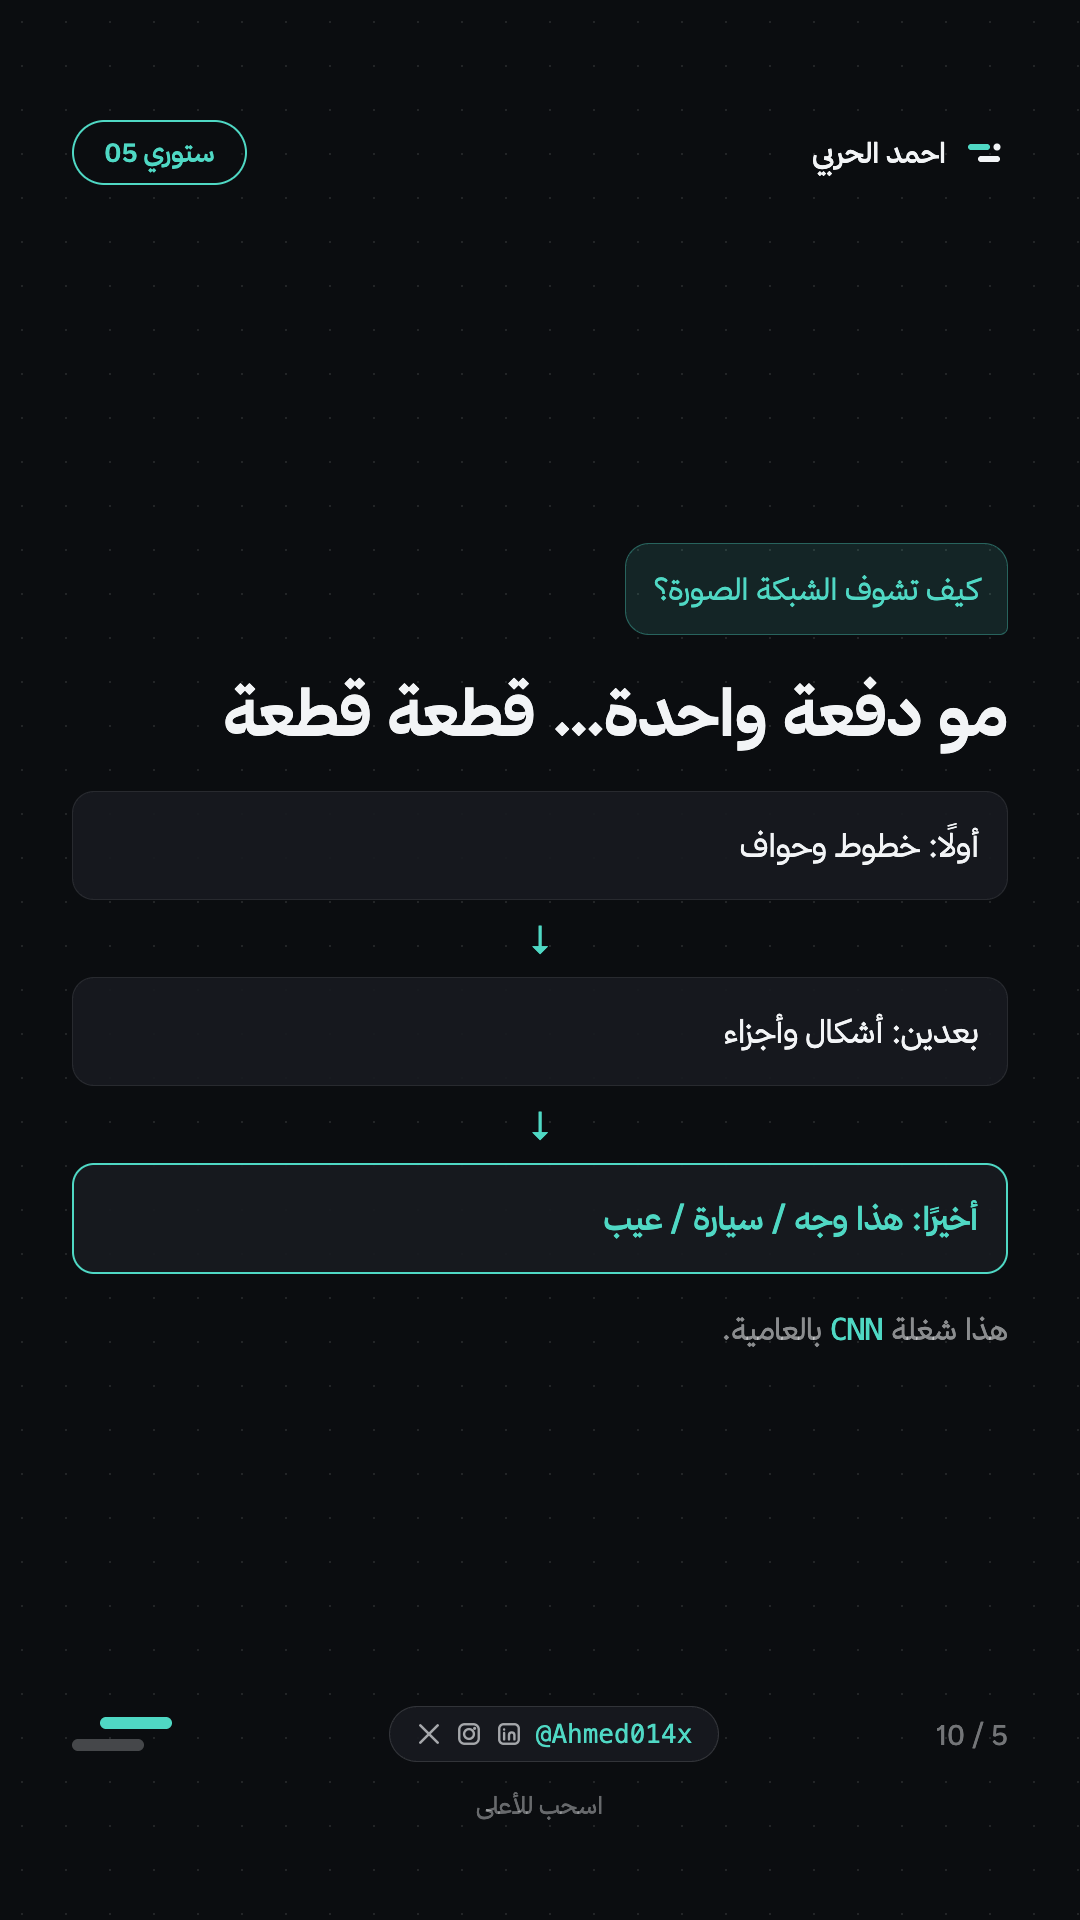
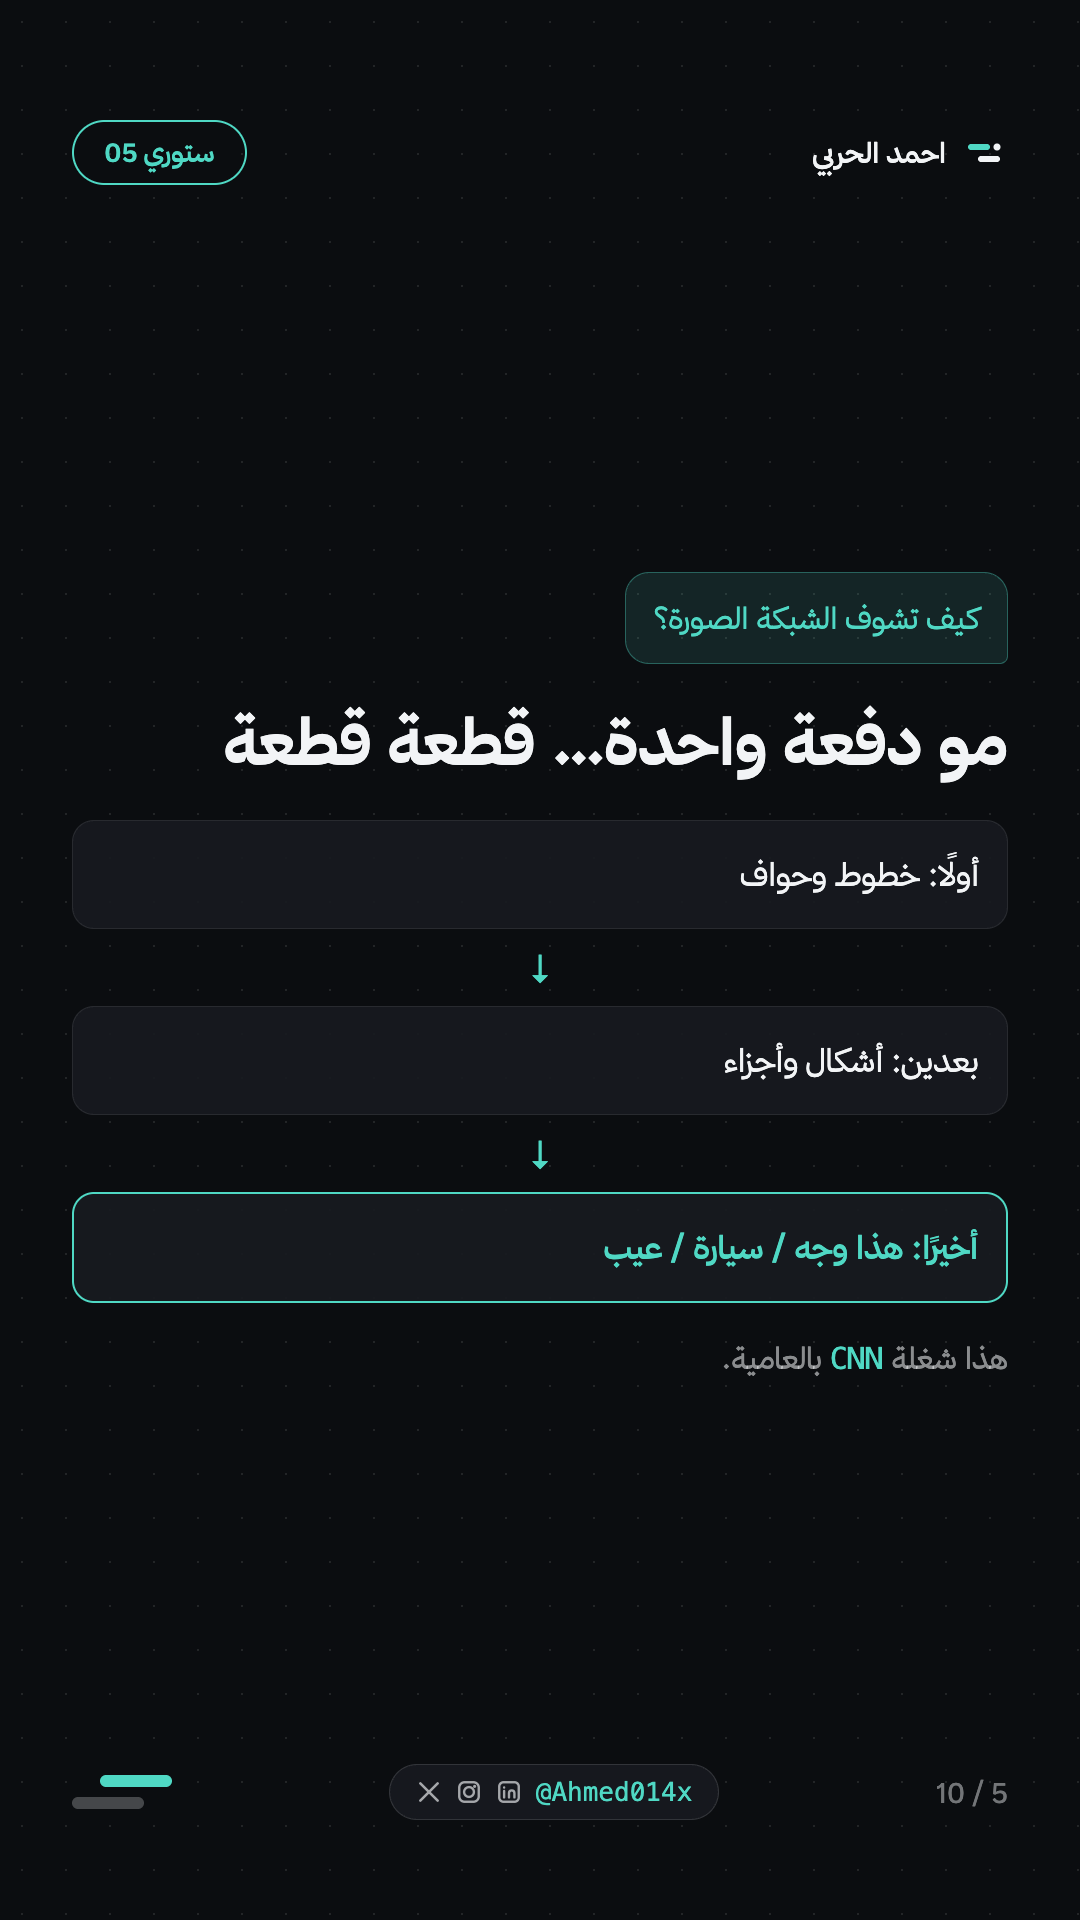
Update brand package HTML to remove redundant text and enhance layout consistency. Update multiple PNG assets to align with new design standards, improving overall visual coherence.

diff --git a/brand-package/html/ستوريات-التعلم-العميق.html b/brand-package/html/ستوريات-التعلم-العميق.html
@@ -47,7 +47,6 @@ body{margin:0;background:#171a1f;font-family:'Thmanyah Sans',sans-serif}
     <div dir="ltr" style="display:flex;align-items:center;gap:14px;padding:12px 26px;background:rgba(23,26,31,.9);border:1px solid rgba(255,255,255,.12);border-radius:999px"><svg width="26" height="26" viewBox="0 0 24 24" fill="none" stroke="rgba(242,244,246,.65)" stroke-width="2.4" stroke-linecap="round"><path d="M4 4l16 16M20 4L4 20"/></svg><svg width="26" height="26" viewBox="0 0 24 24" fill="none" stroke="rgba(242,244,246,.65)" stroke-width="2.2" stroke-linecap="round"><rect x="3" y="3" width="18" height="18" rx="5"/><circle cx="12" cy="12" r="4.5"/><circle cx="17.2" cy="6.8" r="1.4" fill="rgba(242,244,246,.65)" stroke="none"/></svg><svg width="26" height="26" viewBox="0 0 24 24" fill="none" stroke="rgba(242,244,246,.65)" stroke-width="2.2" stroke-linecap="round"><rect x="3" y="3" width="18" height="18" rx="4"/><path d="M7.5 11v6M7.5 7.8v.1M12 17v-4a2.5 2.5 0 0 1 5 0v4"/></svg><span dir="ltr" style="font-size:26px;font-family:ui-monospace,monospace;color:#4fd8c4">@Ahmed014x</span></div>
     <div style="display:flex;flex-direction:column;gap:10px;align-items:flex-start"><span style="width:72px;height:12px;border-radius:6px;background:#4fd8c4"></span><span style="width:72px;height:12px;border-radius:6px;background:rgba(242,244,246,.25);margin-right:28px"></span></div>
   </div>
-  <div style="text-align:center;font-size:24px;color:rgba(242,244,246,.4)">اسحب للأعلى</div>
 </div>
 </div>
 <div id="s2" dir="rtl" style="width:1080px;height:1920px;background-color:#0b0d10;background-image:radial-gradient(rgba(242,244,246,.1) 1.5px,transparent 1.5px);background-size:44px 44px;padding:120px 72px 100px;box-sizing:border-box;display:flex;flex-direction:column;font-family:'Thmanyah Sans',sans-serif;position:relative">
@@ -69,7 +68,6 @@ body{margin:0;background:#171a1f;font-family:'Thmanyah Sans',sans-serif}
     <div dir="ltr" style="display:flex;align-items:center;gap:14px;padding:12px 26px;background:rgba(23,26,31,.9);border:1px solid rgba(255,255,255,.12);border-radius:999px"><svg width="26" height="26" viewBox="0 0 24 24" fill="none" stroke="rgba(242,244,246,.65)" stroke-width="2.4" stroke-linecap="round"><path d="M4 4l16 16M20 4L4 20"/></svg><svg width="26" height="26" viewBox="0 0 24 24" fill="none" stroke="rgba(242,244,246,.65)" stroke-width="2.2" stroke-linecap="round"><rect x="3" y="3" width="18" height="18" rx="5"/><circle cx="12" cy="12" r="4.5"/><circle cx="17.2" cy="6.8" r="1.4" fill="rgba(242,244,246,.65)" stroke="none"/></svg><svg width="26" height="26" viewBox="0 0 24 24" fill="none" stroke="rgba(242,244,246,.65)" stroke-width="2.2" stroke-linecap="round"><rect x="3" y="3" width="18" height="18" rx="4"/><path d="M7.5 11v6M7.5 7.8v.1M12 17v-4a2.5 2.5 0 0 1 5 0v4"/></svg><span dir="ltr" style="font-size:26px;font-family:ui-monospace,monospace;color:#4fd8c4">@Ahmed014x</span></div>
     <div style="display:flex;flex-direction:column;gap:10px;align-items:flex-start"><span style="width:72px;height:12px;border-radius:6px;background:#4fd8c4"></span><span style="width:72px;height:12px;border-radius:6px;background:rgba(242,244,246,.25);margin-right:28px"></span></div>
   </div>
-  <div style="text-align:center;font-size:24px;color:rgba(242,244,246,.4)">اسحب للأعلى</div>
 </div>
 </div>
 <div id="s3" dir="rtl" style="width:1080px;height:1920px;background-color:#0b0d10;background-image:radial-gradient(rgba(242,244,246,.1) 1.5px,transparent 1.5px);background-size:44px 44px;padding:120px 72px 100px;box-sizing:border-box;display:flex;flex-direction:column;font-family:'Thmanyah Sans',sans-serif;position:relative">
@@ -102,7 +100,6 @@ body{margin:0;background:#171a1f;font-family:'Thmanyah Sans',sans-serif}
     <div dir="ltr" style="display:flex;align-items:center;gap:14px;padding:12px 26px;background:rgba(23,26,31,.9);border:1px solid rgba(255,255,255,.12);border-radius:999px"><svg width="26" height="26" viewBox="0 0 24 24" fill="none" stroke="rgba(242,244,246,.65)" stroke-width="2.4" stroke-linecap="round"><path d="M4 4l16 16M20 4L4 20"/></svg><svg width="26" height="26" viewBox="0 0 24 24" fill="none" stroke="rgba(242,244,246,.65)" stroke-width="2.2" stroke-linecap="round"><rect x="3" y="3" width="18" height="18" rx="5"/><circle cx="12" cy="12" r="4.5"/><circle cx="17.2" cy="6.8" r="1.4" fill="rgba(242,244,246,.65)" stroke="none"/></svg><svg width="26" height="26" viewBox="0 0 24 24" fill="none" stroke="rgba(242,244,246,.65)" stroke-width="2.2" stroke-linecap="round"><rect x="3" y="3" width="18" height="18" rx="4"/><path d="M7.5 11v6M7.5 7.8v.1M12 17v-4a2.5 2.5 0 0 1 5 0v4"/></svg><span dir="ltr" style="font-size:26px;font-family:ui-monospace,monospace;color:#4fd8c4">@Ahmed014x</span></div>
     <div style="display:flex;flex-direction:column;gap:10px;align-items:flex-start"><span style="width:72px;height:12px;border-radius:6px;background:#4fd8c4"></span><span style="width:72px;height:12px;border-radius:6px;background:rgba(242,244,246,.25);margin-right:28px"></span></div>
   </div>
-  <div style="text-align:center;font-size:24px;color:rgba(242,244,246,.4)">اسحب للأعلى</div>
 </div>
 </div>
 <div id="s4" dir="rtl" style="width:1080px;height:1920px;background-color:#0b0d10;background-image:radial-gradient(rgba(242,244,246,.1) 1.5px,transparent 1.5px);background-size:44px 44px;padding:120px 72px 100px;box-sizing:border-box;display:flex;flex-direction:column;font-family:'Thmanyah Sans',sans-serif;position:relative">
@@ -135,7 +132,6 @@ body{margin:0;background:#171a1f;font-family:'Thmanyah Sans',sans-serif}
     <div dir="ltr" style="display:flex;align-items:center;gap:14px;padding:12px 26px;background:rgba(23,26,31,.9);border:1px solid rgba(255,255,255,.12);border-radius:999px"><svg width="26" height="26" viewBox="0 0 24 24" fill="none" stroke="rgba(242,244,246,.65)" stroke-width="2.4" stroke-linecap="round"><path d="M4 4l16 16M20 4L4 20"/></svg><svg width="26" height="26" viewBox="0 0 24 24" fill="none" stroke="rgba(242,244,246,.65)" stroke-width="2.2" stroke-linecap="round"><rect x="3" y="3" width="18" height="18" rx="5"/><circle cx="12" cy="12" r="4.5"/><circle cx="17.2" cy="6.8" r="1.4" fill="rgba(242,244,246,.65)" stroke="none"/></svg><svg width="26" height="26" viewBox="0 0 24 24" fill="none" stroke="rgba(242,244,246,.65)" stroke-width="2.2" stroke-linecap="round"><rect x="3" y="3" width="18" height="18" rx="4"/><path d="M7.5 11v6M7.5 7.8v.1M12 17v-4a2.5 2.5 0 0 1 5 0v4"/></svg><span dir="ltr" style="font-size:26px;font-family:ui-monospace,monospace;color:#4fd8c4">@Ahmed014x</span></div>
     <div style="display:flex;flex-direction:column;gap:10px;align-items:flex-start"><span style="width:72px;height:12px;border-radius:6px;background:#4fd8c4"></span><span style="width:72px;height:12px;border-radius:6px;background:rgba(242,244,246,.25);margin-right:28px"></span></div>
   </div>
-  <div style="text-align:center;font-size:24px;color:rgba(242,244,246,.4)">اسحب للأعلى</div>
 </div>
 </div>
 <div id="s5" dir="rtl" style="width:1080px;height:1920px;background-color:#0b0d10;background-image:radial-gradient(rgba(242,244,246,.1) 1.5px,transparent 1.5px);background-size:44px 44px;padding:120px 72px 100px;box-sizing:border-box;display:flex;flex-direction:column;font-family:'Thmanyah Sans',sans-serif;position:relative">
@@ -161,7 +157,6 @@ body{margin:0;background:#171a1f;font-family:'Thmanyah Sans',sans-serif}
     <div dir="ltr" style="display:flex;align-items:center;gap:14px;padding:12px 26px;background:rgba(23,26,31,.9);border:1px solid rgba(255,255,255,.12);border-radius:999px"><svg width="26" height="26" viewBox="0 0 24 24" fill="none" stroke="rgba(242,244,246,.65)" stroke-width="2.4" stroke-linecap="round"><path d="M4 4l16 16M20 4L4 20"/></svg><svg width="26" height="26" viewBox="0 0 24 24" fill="none" stroke="rgba(242,244,246,.65)" stroke-width="2.2" stroke-linecap="round"><rect x="3" y="3" width="18" height="18" rx="5"/><circle cx="12" cy="12" r="4.5"/><circle cx="17.2" cy="6.8" r="1.4" fill="rgba(242,244,246,.65)" stroke="none"/></svg><svg width="26" height="26" viewBox="0 0 24 24" fill="none" stroke="rgba(242,244,246,.65)" stroke-width="2.2" stroke-linecap="round"><rect x="3" y="3" width="18" height="18" rx="4"/><path d="M7.5 11v6M7.5 7.8v.1M12 17v-4a2.5 2.5 0 0 1 5 0v4"/></svg><span dir="ltr" style="font-size:26px;font-family:ui-monospace,monospace;color:#4fd8c4">@Ahmed014x</span></div>
     <div style="display:flex;flex-direction:column;gap:10px;align-items:flex-start"><span style="width:72px;height:12px;border-radius:6px;background:#4fd8c4"></span><span style="width:72px;height:12px;border-radius:6px;background:rgba(242,244,246,.25);margin-right:28px"></span></div>
   </div>
-  <div style="text-align:center;font-size:24px;color:rgba(242,244,246,.4)">اسحب للأعلى</div>
 </div>
 </div>
 <div id="s6" dir="rtl" style="width:1080px;height:1920px;background-color:#0b0d10;background-image:radial-gradient(rgba(242,244,246,.1) 1.5px,transparent 1.5px);background-size:44px 44px;padding:120px 72px 100px;box-sizing:border-box;display:flex;flex-direction:column;font-family:'Thmanyah Sans',sans-serif;position:relative">
@@ -190,7 +185,6 @@ body{margin:0;background:#171a1f;font-family:'Thmanyah Sans',sans-serif}
     <div dir="ltr" style="display:flex;align-items:center;gap:14px;padding:12px 26px;background:rgba(23,26,31,.9);border:1px solid rgba(255,255,255,.12);border-radius:999px"><svg width="26" height="26" viewBox="0 0 24 24" fill="none" stroke="rgba(242,244,246,.65)" stroke-width="2.4" stroke-linecap="round"><path d="M4 4l16 16M20 4L4 20"/></svg><svg width="26" height="26" viewBox="0 0 24 24" fill="none" stroke="rgba(242,244,246,.65)" stroke-width="2.2" stroke-linecap="round"><rect x="3" y="3" width="18" height="18" rx="5"/><circle cx="12" cy="12" r="4.5"/><circle cx="17.2" cy="6.8" r="1.4" fill="rgba(242,244,246,.65)" stroke="none"/></svg><svg width="26" height="26" viewBox="0 0 24 24" fill="none" stroke="rgba(242,244,246,.65)" stroke-width="2.2" stroke-linecap="round"><rect x="3" y="3" width="18" height="18" rx="4"/><path d="M7.5 11v6M7.5 7.8v.1M12 17v-4a2.5 2.5 0 0 1 5 0v4"/></svg><span dir="ltr" style="font-size:26px;font-family:ui-monospace,monospace;color:#4fd8c4">@Ahmed014x</span></div>
     <div style="display:flex;flex-direction:column;gap:10px;align-items:flex-start"><span style="width:72px;height:12px;border-radius:6px;background:#4fd8c4"></span><span style="width:72px;height:12px;border-radius:6px;background:rgba(242,244,246,.25);margin-right:28px"></span></div>
   </div>
-  <div style="text-align:center;font-size:24px;color:rgba(242,244,246,.4)">اسحب للأعلى</div>
 </div>
 </div>
 <div id="s7" dir="rtl" style="width:1080px;height:1920px;background-color:#0b0d10;background-image:radial-gradient(rgba(242,244,246,.1) 1.5px,transparent 1.5px);background-size:44px 44px;padding:120px 72px 100px;box-sizing:border-box;display:flex;flex-direction:column;font-family:'Thmanyah Sans',sans-serif;position:relative">
@@ -225,7 +219,6 @@ body{margin:0;background:#171a1f;font-family:'Thmanyah Sans',sans-serif}
     <div dir="ltr" style="display:flex;align-items:center;gap:14px;padding:12px 26px;background:rgba(23,26,31,.9);border:1px solid rgba(255,255,255,.12);border-radius:999px"><svg width="26" height="26" viewBox="0 0 24 24" fill="none" stroke="rgba(242,244,246,.65)" stroke-width="2.4" stroke-linecap="round"><path d="M4 4l16 16M20 4L4 20"/></svg><svg width="26" height="26" viewBox="0 0 24 24" fill="none" stroke="rgba(242,244,246,.65)" stroke-width="2.2" stroke-linecap="round"><rect x="3" y="3" width="18" height="18" rx="5"/><circle cx="12" cy="12" r="4.5"/><circle cx="17.2" cy="6.8" r="1.4" fill="rgba(242,244,246,.65)" stroke="none"/></svg><svg width="26" height="26" viewBox="0 0 24 24" fill="none" stroke="rgba(242,244,246,.65)" stroke-width="2.2" stroke-linecap="round"><rect x="3" y="3" width="18" height="18" rx="4"/><path d="M7.5 11v6M7.5 7.8v.1M12 17v-4a2.5 2.5 0 0 1 5 0v4"/></svg><span dir="ltr" style="font-size:26px;font-family:ui-monospace,monospace;color:#4fd8c4">@Ahmed014x</span></div>
     <div style="display:flex;flex-direction:column;gap:10px;align-items:flex-start"><span style="width:72px;height:12px;border-radius:6px;background:#4fd8c4"></span><span style="width:72px;height:12px;border-radius:6px;background:rgba(242,244,246,.25);margin-right:28px"></span></div>
   </div>
-  <div style="text-align:center;font-size:24px;color:rgba(242,244,246,.4)">اسحب للأعلى</div>
 </div>
 </div>
 <div id="s8" dir="rtl" style="width:1080px;height:1920px;background-color:#0b0d10;background-image:radial-gradient(rgba(242,244,246,.1) 1.5px,transparent 1.5px);background-size:44px 44px;padding:120px 72px 100px;box-sizing:border-box;display:flex;flex-direction:column;font-family:'Thmanyah Sans',sans-serif;position:relative">
@@ -254,7 +247,6 @@ body{margin:0;background:#171a1f;font-family:'Thmanyah Sans',sans-serif}
     <div dir="ltr" style="display:flex;align-items:center;gap:14px;padding:12px 26px;background:rgba(23,26,31,.9);border:1px solid rgba(255,255,255,.12);border-radius:999px"><svg width="26" height="26" viewBox="0 0 24 24" fill="none" stroke="rgba(242,244,246,.65)" stroke-width="2.4" stroke-linecap="round"><path d="M4 4l16 16M20 4L4 20"/></svg><svg width="26" height="26" viewBox="0 0 24 24" fill="none" stroke="rgba(242,244,246,.65)" stroke-width="2.2" stroke-linecap="round"><rect x="3" y="3" width="18" height="18" rx="5"/><circle cx="12" cy="12" r="4.5"/><circle cx="17.2" cy="6.8" r="1.4" fill="rgba(242,244,246,.65)" stroke="none"/></svg><svg width="26" height="26" viewBox="0 0 24 24" fill="none" stroke="rgba(242,244,246,.65)" stroke-width="2.2" stroke-linecap="round"><rect x="3" y="3" width="18" height="18" rx="4"/><path d="M7.5 11v6M7.5 7.8v.1M12 17v-4a2.5 2.5 0 0 1 5 0v4"/></svg><span dir="ltr" style="font-size:26px;font-family:ui-monospace,monospace;color:#4fd8c4">@Ahmed014x</span></div>
     <div style="display:flex;flex-direction:column;gap:10px;align-items:flex-start"><span style="width:72px;height:12px;border-radius:6px;background:#4fd8c4"></span><span style="width:72px;height:12px;border-radius:6px;background:rgba(242,244,246,.25);margin-right:28px"></span></div>
   </div>
-  <div style="text-align:center;font-size:24px;color:rgba(242,244,246,.4)">اسحب للأعلى</div>
 </div>
 </div>
 <div id="s9" dir="rtl" style="width:1080px;height:1920px;background-color:#0b0d10;background-image:radial-gradient(rgba(242,244,246,.1) 1.5px,transparent 1.5px);background-size:44px 44px;padding:120px 72px 100px;box-sizing:border-box;display:flex;flex-direction:column;font-family:'Thmanyah Sans',sans-serif;position:relative">
@@ -287,7 +279,6 @@ body{margin:0;background:#171a1f;font-family:'Thmanyah Sans',sans-serif}
     <div dir="ltr" style="display:flex;align-items:center;gap:14px;padding:12px 26px;background:rgba(23,26,31,.9);border:1px solid rgba(255,255,255,.12);border-radius:999px"><svg width="26" height="26" viewBox="0 0 24 24" fill="none" stroke="rgba(242,244,246,.65)" stroke-width="2.4" stroke-linecap="round"><path d="M4 4l16 16M20 4L4 20"/></svg><svg width="26" height="26" viewBox="0 0 24 24" fill="none" stroke="rgba(242,244,246,.65)" stroke-width="2.2" stroke-linecap="round"><rect x="3" y="3" width="18" height="18" rx="5"/><circle cx="12" cy="12" r="4.5"/><circle cx="17.2" cy="6.8" r="1.4" fill="rgba(242,244,246,.65)" stroke="none"/></svg><svg width="26" height="26" viewBox="0 0 24 24" fill="none" stroke="rgba(242,244,246,.65)" stroke-width="2.2" stroke-linecap="round"><rect x="3" y="3" width="18" height="18" rx="4"/><path d="M7.5 11v6M7.5 7.8v.1M12 17v-4a2.5 2.5 0 0 1 5 0v4"/></svg><span dir="ltr" style="font-size:26px;font-family:ui-monospace,monospace;color:#4fd8c4">@Ahmed014x</span></div>
     <div style="display:flex;flex-direction:column;gap:10px;align-items:flex-start"><span style="width:72px;height:12px;border-radius:6px;background:#4fd8c4"></span><span style="width:72px;height:12px;border-radius:6px;background:rgba(242,244,246,.25);margin-right:28px"></span></div>
   </div>
-  <div style="text-align:center;font-size:24px;color:rgba(242,244,246,.4)">اسحب للأعلى</div>
 </div>
 </div>
 <div id="s10" dir="rtl" style="width:1080px;height:1920px;background-color:#0b0d10;background-image:radial-gradient(rgba(242,244,246,.1) 1.5px,transparent 1.5px);background-size:44px 44px;padding:120px 72px 100px;box-sizing:border-box;display:flex;flex-direction:column;font-family:'Thmanyah Sans',sans-serif;position:relative">
@@ -320,7 +311,6 @@ body{margin:0;background:#171a1f;font-family:'Thmanyah Sans',sans-serif}
     <div dir="ltr" style="display:flex;align-items:center;gap:14px;padding:12px 26px;background:rgba(23,26,31,.9);border:1px solid rgba(255,255,255,.12);border-radius:999px"><svg width="26" height="26" viewBox="0 0 24 24" fill="none" stroke="rgba(242,244,246,.65)" stroke-width="2.4" stroke-linecap="round"><path d="M4 4l16 16M20 4L4 20"/></svg><svg width="26" height="26" viewBox="0 0 24 24" fill="none" stroke="rgba(242,244,246,.65)" stroke-width="2.2" stroke-linecap="round"><rect x="3" y="3" width="18" height="18" rx="5"/><circle cx="12" cy="12" r="4.5"/><circle cx="17.2" cy="6.8" r="1.4" fill="rgba(242,244,246,.65)" stroke="none"/></svg><svg width="26" height="26" viewBox="0 0 24 24" fill="none" stroke="rgba(242,244,246,.65)" stroke-width="2.2" stroke-linecap="round"><rect x="3" y="3" width="18" height="18" rx="4"/><path d="M7.5 11v6M7.5 7.8v.1M12 17v-4a2.5 2.5 0 0 1 5 0v4"/></svg><span dir="ltr" style="font-size:26px;font-family:ui-monospace,monospace;color:#4fd8c4">@Ahmed014x</span></div>
     <div style="display:flex;flex-direction:column;gap:10px;align-items:flex-start"><span style="width:72px;height:12px;border-radius:6px;background:#4fd8c4"></span><span style="width:72px;height:12px;border-radius:6px;background:rgba(242,244,246,.25);margin-right:28px"></span></div>
   </div>
-  <div style="text-align:center;font-size:24px;color:rgba(242,244,246,.4)">اسحب للأعلى</div>
 </div>
 </div>
 </div>
